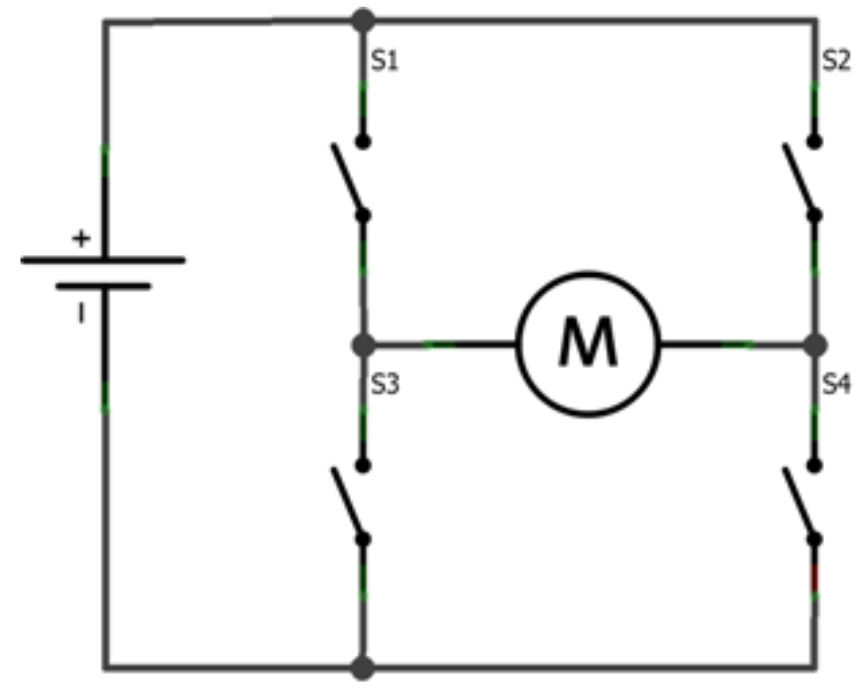
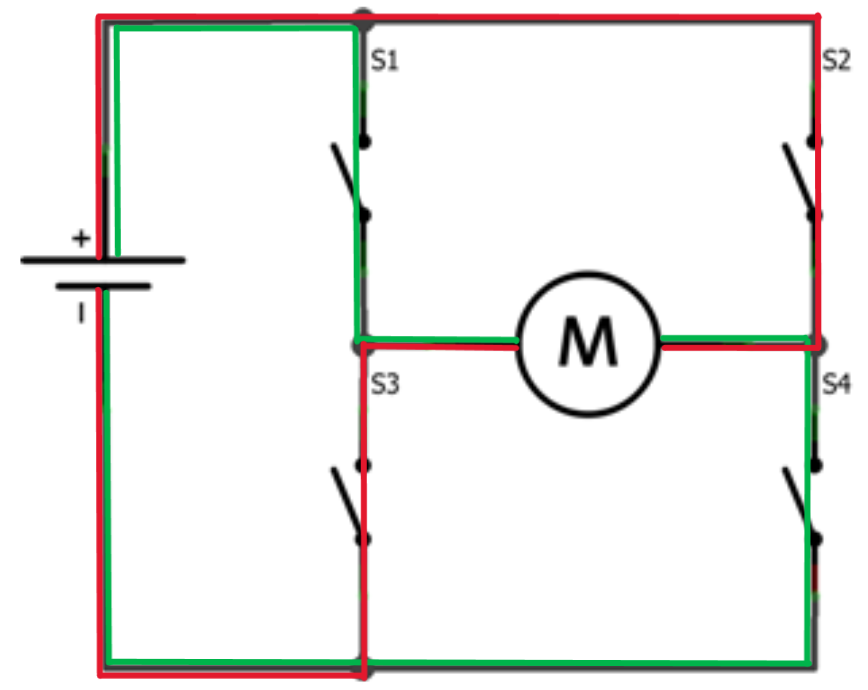
Add files via upload

Changed region(s): [[0.0933, 0.0, 0.9643, 1.0]]

diff --git a/antenne.html b/antenne.html
@@ -1,0 +1,169 @@
+<!DOCTYPE html>
+<html lang="fr">
+<head>
+    <meta charset="UTF-8">
+    <meta name="viewport" content="width=device-width, initial-scale=1.0">
+    <title>Projet Radiogoniométrie | Joris Coppi</title>
+    <style>
+        :root { 
+            --primary: #2c3e50; 
+            --accent: #3498db; 
+        }
+
+        body { 
+            font-family: 'Segoe UI', sans-serif; 
+            line-height: 1.8; 
+            color: #333; 
+            margin: 0; 
+            padding: 0;
+            background: linear-gradient(to right, #8ebf42, #1c87c9);
+            min-height: 100vh;
+        }
+
+        .container { 
+            max-width: 850px; 
+            margin: 40px auto; 
+            padding: 40px; 
+            background: white; 
+            border-radius: 20px;
+            box-shadow: 0 10px 30px rgba(0,0,0,0.2);
+        }
+
+        .back-link { 
+            text-decoration: none; 
+            color: var(--accent); 
+            font-weight: bold; 
+            display: inline-block;
+            margin-bottom: 20px;
+            transition: 0.3s;
+        }
+        .back-link:hover { transform: translateX(-5px); }
+
+        header { 
+            border-bottom: 2px solid var(--accent); 
+            margin-bottom: 30px; 
+            padding-bottom: 10px;
+        }
+
+        h1 { color: var(--primary); margin: 0; }
+        h2 { color: var(--accent); margin-top: 30px; }
+        h3 { color: var(--primary); border-left: 4px solid var(--accent); padding-left: 15px; margin-top: 25px; }
+        h4 { color: var(--primary); margin-top: 20px; padding-left: 5px; text-transform: uppercase; font-size: 0.95rem; letter-spacing: 0.5px; }
+
+        .project-image { 
+            width: 100%; 
+            height: auto; 
+            max-height: 450px;
+            background: #eee; 
+            border-radius: 8px; 
+            object-fit: cover;
+            margin-bottom: 30px;
+        }
+
+        .external-link { 
+            display: inline-block; 
+            margin-top: 20px; 
+            padding: 15px 25px; 
+            background: var(--primary); 
+            color: white; 
+            text-decoration: none; 
+            border-radius: 5px; 
+            font-weight: bold; 
+            transition: 0.3s;
+        }
+        .external-link:hover { background: var(--accent); }
+        
+        ul { margin-top: 5px; }
+        strong { color: #111; }
+    </style>
+</head>
+<body>
+
+<div class="container">
+    <a href="index.html" class="back-link">← Retour à l'accueil</a>
+    
+    <header>
+        <h1>Antenne de Radiogoniométrie</h1>
+    </header>
+
+    <div class="content">
+        <img src="image/imgantenne.jpg" alt="image antenne radiogoniometrie" class="project-image" style="width: 50%; height: auto;">
+        
+        <h2>Réalisation de l'antenne</h2>
+        <p>Pour réaliser ce projet, il nous a été fourni un cahier des charges auquel le produit devait strictement correspondre.</p>
+        <p>L'objectif de ce projet était la réalisation d'une antenne de radiogoniométrie. La radiogoniométrie consiste à trouver la position géographique d'un émetteur caché (une balise radio) en cherchant d'où provient son signal. Notre antenne devait être reliée à une clé réceptrice spéciale (SDR) connectée à une tablette, le tout manipulé à bout de bras par un utilisateur sur le terrain pour traquer une balise émettant sur la fréquence radio de 144 MHz.</p>
+        <a href="CDCRG.pdf" target="_blank" class="external-link">Le cahier des charges est disponible ici</a>
+
+        <h3>1 - Conception préliminaire</h3>
+        <p>La première étape, la conception préliminaire, constitue une ébauche des solutions possibles correspondant aux exigences du cahier des charges. Nous allons analyser et choisir notre matériel exigence par exigence.</p>
+        
+        <h4>Exigence de Dimensions et de Type d'Antenne</h4>
+        <p>Le cahier des charges impose que notre antenne tienne dans un espace maximal de 0,6 m par 1,2 m pour rester transportable. Pour capter efficacement la fréquence de 144 MHz, nous avions le choix entre deux grandes géométries : l'antenne YAGI (l'antenne râteau classique des télévisions) et l'antenne HB9CV (une antenne à deux éléments reliés par un petit fil conducteur appelé "gamma").<br/>
+        En faisant nos calculs, nous avons remarqué qu'une antenne YAGI aurait nécessité des éléments physiques beaucoup trop longs pour capter le 144 MHz, dépassant les dimensions autorisées. C'est pour cela que nous avons retenu l'antenne HB9CV. Elle est beaucoup plus compacte et s'intègre parfaitement dans les dimensions exigées.</p>
+        
+        <h4>Exigence de Directivité, de Gain et d'Ouverture</h4>
+        <p>Pour localiser précisément une balise, notre antenne doit obligatoirement être "directive". Cela signifie qu'elle doit capter énormément d'énergie à l'avant (là où on la pointe) et rien du tout sur les côtés ou à l'arrière. Le cahier des charges exigeait un rapport avant/arrière supérieur à 3 dB (l'avant doit capter nettement mieux que l'arrière) et un angle d'ouverture inférieur à 160°. C'est l'angle dans lequel notre antenne capte le mieux le signal ; hors de cet angle, l'antenne capte le signal divisé de moitié, ou moins, en puissance. Le rapport avant/arrière permet de chiffrer la directivité de l'antenne : plus il est important, plus l'antenne capte le signal vers l'avant, et moins vers l'arrière.<br/>
+        Pour valider cela avant toute fabrication, nous avons simulé notre antenne HB9CV sur le logiciel MMANA-GAL. Les graphiques obtenus ont montré un immense cône de capture à l'avant et une extinction presque totale à l'arrière. La simulation nous a donné un rapport avant/arrière excellent de 13,5 dB, ce qui valide largement cette exigence.</p>
+        <img src="image/managal.png" alt="managal" class="project-image" style="width: 50%; height: auto;">
+
+        <h4>Exigence de Fréquence et d'Impédance théoriques</h4>
+        <p>L'antenne doit résonner parfaitement à 144 MHz. Ce qui signifie qu'elle doit capter les signaux à 144 MHz mieux que tous les autres. L'impédance, c'est la résistance électrique qu'oppose l'antenne au signal qui la traverse. Pour que l'énergie s'écoule parfaitement sans se perdre, cette impédance doit être la plus proche possible de 50 Ohms (la norme standard en radio).<br/>
+        Notre simulation informatique préliminaire nous a indiqué que notre antenne brute présentait une impédance complexe de 52,45 Ohms de résistance, mais avec une perturbation parasite (appelée partie imaginaire) de +39,78j Ohms. Pour annuler cette perturbation parasite (comme on annulerait un contrepoids), nous avons calculé qu'il faudrait ajouter en série un petit composant électronique : un condensateur.</p>
+        
+        <h4>Exigence de Choix des Matériaux</h4>
+        <p>Pour les éléments physiques de capture (le directeur à l'avant et le réflecteur à l'arrière), le cuivre aurait été idéal pour l'électricité, mais l'antenne aurait été trop lourde et n'aurait pas respecté l'exigence de rigidité ; l'antenne n'aurait pas été à mémoire de forme. Nous avons donc choisi la solution suivante : un bras central (le boom) en profilé d'aluminium pour la légèreté, la rigidité et la conductivité électrique, et des branches en mètre ruban en acier. Le mètre ruban est conducteur, très léger, et possède une mémoire de forme parfaite : si on frôle un arbre pendant la chasse, l'élément se plie et se remet droit tout seul.</p>
+        
+        <p>L'ensemble de cette étude technique de faisabilité a été regroupé dans notre dossier de conception préliminaire.</p>
+
+        <h3>2 - Conception détaillée</h3>
+        <p>Après avoir validé cette ébauche, nous réalisons la conception détaillée. Ici, nous développons concrètement les plans de fabrication précis et adaptons la théorie aux composants réels du commerce, exigence par exigence.</p>
+        
+        <h4>Exigence des Dimensions Fixes des Éléments</h4>
+        <p>La vitesse des ondes radio divisée par notre fréquence nous donne notre longueur d'onde physique (symbole Lambda &lambda;), qui est ici de 2,08 mètres. À partir de cette mesure physique universelle, nous avons calculé précisément la taille millimétrée de nos pièces en acier : notre bras central fera 60 cm de long, notre élément Directeur (à l'avant) fera exactement 95,8 cm et notre élément Réflecteur (à l'arrière) fera 104,1 cm. Les longueurs calculées sont en fait un coefficient fixe multiplié par la longueur d'onde (lambda).</p>
+        
+        <h4>Exigence d'Adaptation d'Impédance Réelle</h4>
+<p>À cette étape, nous trouvons que nous devons mettre un condensateur de 27,78 pF. Il doit nous permettre d'être dans la zone de tolérance des -10 dB imposée par le client. Cela signifie que l'antenne n'atténue pas, ou très faiblement, le signal à 144 MHz. Nous ne mettrons pas cette valeur de condensateur car les caractéristiques réelles de l'antenne diffèrent des caractéristiques théoriques.</p>        
+        <h4>Exigence de Connectique et Solidité</h4>
+        <p>Le signal capté doit être envoyé vers la clé réceptrice sans aucune fuite. Le cahier des charges impose un connecteur de type SMA femelle solidaire de l'antenne. Nous le soudons à une plaque de type PCB qui fait le lien entre l'antenne, le condensateur d'ajustement et la clé réceptrice. La plaque de circuit imprimé et la clé réceptrice sont reliées par un câble coaxial ; en effet, la carte se situe à l'avant de l'antenne tandis que la clé réceptrice est à l'arrière.</p>
+        
+        <p>Toutes les étapes de la conception sont détaillées dans le dossier de conception disponible ci-dessous.</p>
+        <a href="DDCRG.pdf" target="_blank" class="external-link">Le dossier de conception final est disponible ici</a>
+
+        <h3>3 - Fabrication de la carte et de la structure</h3>
+        <p>Afin de fabriquer notre antenne, nous avons suivi le protocole détaillé dans le document appelé LCF (Liste de Contrôle des règles de Fabrication), qui nous sert de guide pour cette étape.</p>
+        <p>Nous avons commencé par découper nos rubans d'acier aux dimensions exactes calculées dans le dossier de conception, puis nous les avons percés proprement. En parallèle, nous avons fabriqué notre petite carte électronique en y soudant notre connecteur SMA femelle.</p>
+        <p>Ensuite est venue l'étape de l'assemblage mécanique : nous avons fixé nos éléments en ruban sur le rail en aluminium à l'aide de vis et de cales. Un point très important lors de cette fabrication : l'aluminium est recouvert d'une couche de vernis isolant. Nous avons dû poncer les zones de contact entre l'aluminium et le mètre ruban avec du papier de verre pour que le courant électrique puisse circuler librement. Enfin, nous avons installé la poignée de maintien (la crosse) constituée d'un petit morceau de profilé d'aluminium et fixé le support de la tablette de 10 pouces, réalisé sur mesure grâce à une imprimante 3D.</p>
+        <a href="fabrg.pdf" target="_blank" class="external-link">Le protocole de fabrication est disponible ici</a>
+
+        <h3>4 - Vérification de la conformité</h3>
+        <p>Maintenant que l'antenne est construite, nous devons prouver scientifiquement que toutes les exigences du client sont respectées. C'est pour cela que nous rédigeons notre dossier de vérification, qui répertorie chaque test et son résultat.</p>
+        
+        <h4>Exigences Mécaniques (Dimensions, Masse et Rigidité)</h4>
+        <ul>
+            <li><strong>Test des dimensions :</strong> Mesurée au mètre, notre antenne fait 60 cm de large sur 103 cm de long. L'exigence de taille est respectée, le statut est <strong>Conforme</strong>.</li>
+            <li><strong>Test de la masse :</strong> Le cahier des charges interdisait de dépasser un poids total de 1400 g pour que l'antenne soit facilement transportable et tenable lors de la chasse. Nous avons posé l'ensemble complet (antenne, poignée, support, tablette et clé SDR) sur une balance électronique. Son poids était de 1320 grammes. Le statut est <strong>Conforme</strong>.</li>
+            <li><strong>Test de tenue et mémoire de forme :</strong> La tablette reste fermement clipsée même en secouant l'antenne. Les branches en mètre ruban reprennent instantanément leur forme après torsion. Le statut est <strong>Conforme</strong>.</li>
+        </ul>
+        
+        <h4>Exigences Électriques (Fréquence et Impédance)</h4>
+        <ul>
+            <li><strong>Test de la fréquence de résonance :</strong> Pour ce test, nous branchons l'antenne sur un appareil de mesure appelé VNA (Analyseur de réseau vectoriel). Cet appareil permet, entre autres, de mesurer la fréquence de résonance, c'est-à-dire la fréquence à laquelle l'antenne capte le mieux le signal. C'est là que nous avons constaté une défaillance : l'antenne résonnait initialement à 142 MHz au lieu de 144 MHz. L'antenne captait "trop bas". Pour corriger ce problème de fabrication, nous avons appliqué un correctif en recoupant un centimètre de mètre ruban de chaque côté de notre élément Directeur à l'avant. Après cette modification physique, une nouvelle mesure au VNA a indiqué une résonance parfaite pile sur 144 MHz. L'exigence est validée <strong>Conforme</strong>.</li>
+            <li><strong>Test de l'impédance réelle :</strong> Grâce à l'analyseur de réseau vectoriel, nous récupérons les données mesurées afin de les traiter dans un logiciel différent. Nous réalisons donc une étude afin de savoir, avec l'antenne réelle que nous avons, le composant à mettre pour assurer l'adaptation d'impédance. Nous trouvons donc que, pour avoir une antenne parfaitement adaptée, nous devons avoir un condensateur de 8,5 pF. Nous ne pouvons pas utiliser cette valeur car elle n'existe pas, les fabricants ne produisent pas de condensateurs à 8,5 pF ; en revanche, ils en produisent à 8,2 pF. Nous sélectionnons donc cette valeur et la simulons ; nous trouvons que notre antenne sera conforme avec cette valeur. Nous réalisons ensuite une nouvelle mesure avec le condensateur installé, et nous constatons d'après le graphique suivant que l'impédance de notre antenne est dans le cercle admis par l'exigence client. Sur le graphique, le point vert constitue l'adaptation parfaite (avec un condensateur de 8,5 pF), le point rouge l'adaptation réelle (avec le condensateur de 8,2 pF) et le cercle rose représente le maximum à ne pas dépasser ; si nous le dépassons, notre signal à 144 MHz sera trop atténué. Le statut est <strong>Conforme</strong>.</li>
+        </ul>
+        <img src="image/imprg.png" alt="managal" class="project-image" style="width: 60%; height: auto;">
+
+        <h4>Exigences de Performance Terrain (Directivité, Gain et Ouverture)</h4>
+        <p>Pour valider les derniers critères, nous nous sommes placés face à une balise. Nous avons fait pivoter notre antenne sur elle-même à 360° pour tracer son diagramme de réception réel (le diagramme ci-dessous).<br/>
+        Les mesures ont confirmé que l'antenne possède un excellent pouvoir directionnel : notre rapport avant/arrière réel a été mesuré à 15 dB (ce qui signifie que l'antenne capte beaucoup plus à l'avant qu'à l'arrière). Nous sommes au-dessus de l'exigence, et dans cette situation, c'est une bonne chose. Sur le schéma, plus le trait bleu est loin du centre, mieux il capte le signal dans cette direction. Nous constatons qu'il est très loin du centre en un point mais moins aux autres endroits, cela signifie que l'antenne va effectivement mieux capter le signal dans une direction privilégiée. De plus, son angle d'ouverture d'écoute est restreint à 90°, ce qui permettra à l'utilisateur de balayer l'horizon pour viser la cible avec une plus grande précision que le minimum requis par le cahier des charges.</p>
+        
+        <p>Après avoir fait les derniers ajustements de l'antenne (adaptation d'impédance et fréquence de résonance), la matrice de conformité de notre dossier de vérification confirme que toutes les exigences sont validées.</p>
+                <img src="image/diagrg.png" alt="managal" class="project-image" style="width: 50%; height: auto;">
+  
+       <br/> <a href="ddvrg.pdf" target="_blank" class="external-link">Le dossier de vérification est disponible ici</a>
+<h3>Conclusion</h3>
+Ce projet nous a permis de travailler nos compétences théoriques mais également pratiques lors de la fabrication de l'antenne. Nous avons également dû faire preuve d'adaptabilité pour produire une antenne fonctionnelle malgré les contraintes techniques.        
+        
+</div> 
+
+</body>
+</html>